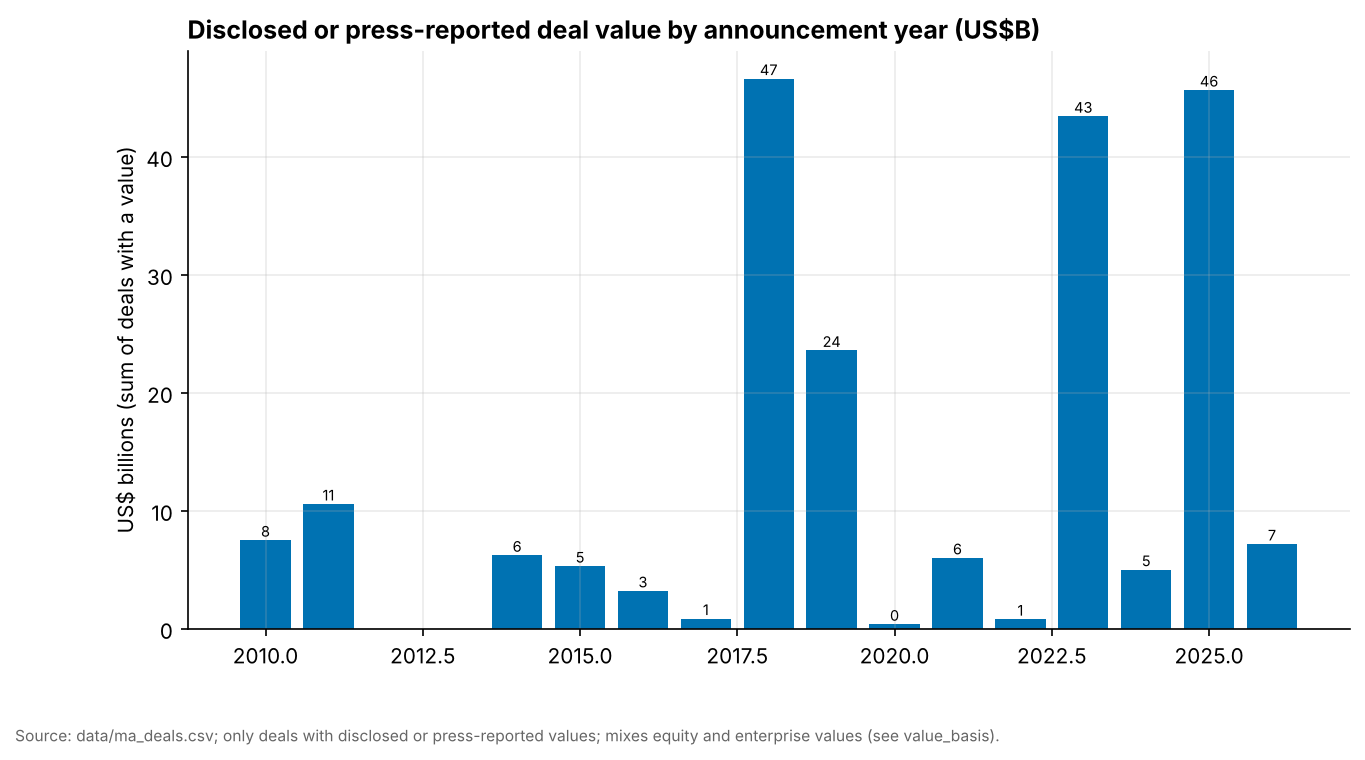
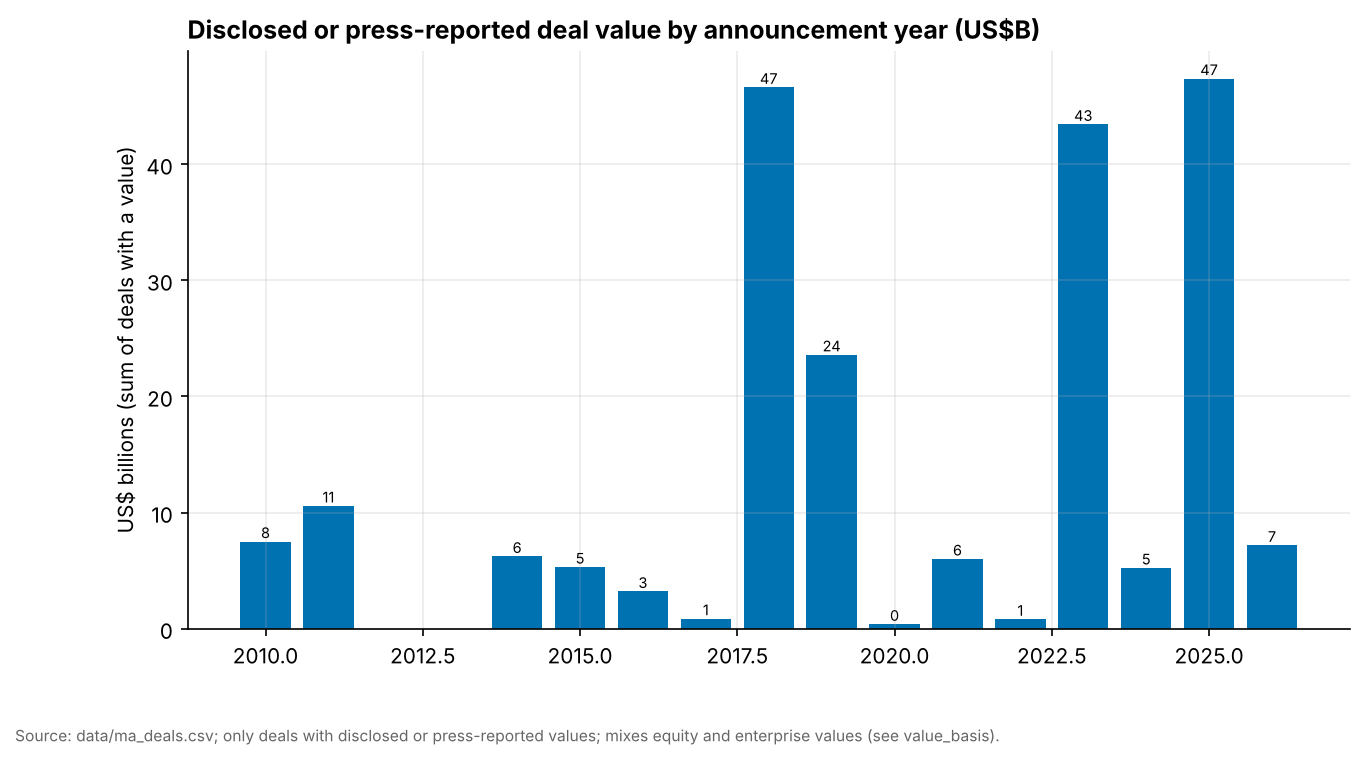
docs(ch10): ingestion and integration
Claude-Session: https://claude.ai/code/session_015j6Et44vVa5dK62bXN3KKX

diff --git a/meta/glossary-terms.md b/meta/glossary-terms.md
@@ -293,3 +293,32 @@
 - **Lakeflow** — Databricks' suite for data ingestion, declarative pipelines and job orchestration. (ch25)
 - **Liquidation preference** — The right of preferred shareholders to be repaid before common shareholders in a sale or liquidation. (ch25)
 - **Tender offer** — An offer to buy existing shares from employees and holders, often used by private companies to provide liquidity. (ch25)
+- **Role-based access control** — a model in which permissions are granted to roles and users receive access by being assigned roles. (ch15)
+- **Attribute-based access control** — a model that decides access at request time from attributes of the user, the data, the action and the context. (ch15)
+- **Row-level security** — a policy that silently filters which rows of a table a given user can see. (ch15)
+- **Column-level security** — a policy that blocks or masks specific columns depending on who is asking. (ch15)
+- **Dynamic data masking** — rewriting sensitive values at query time (for example, showing j***@example.com) without changing the stored data. (ch15)
+- **Static data masking** — permanently replacing sensitive values in a copy of the data, typically for test or vendor use. (ch15)
+- **Tag-based policy** — an access or masking policy attached to a tag, so it applies automatically to every object carrying that tag. (ch15)
+- **Policy engine** — software that evaluates access rules and returns allow, deny, filter or mask decisions for enforcement points. (ch15)
+- **Open Policy Agent** — a CNCF graduated, general-purpose policy engine that evaluates rules written in the Rego language. (ch15)
+- **Apache Ranger** — an open-source framework for defining and enforcing data access policies across Hadoop-era platforms such as Hive, HDFS and Kafka. (ch15)
+- **Data classification** — labelling data by type and sensitivity (for example, email address, card number, health data) so policies can act on it. (ch15)
+- **Data discovery** — finding where data stores, and the sensitive data inside them, exist across an estate. (ch15)
+- **Exact data match** — detecting sensitive data by comparing content against hashed values from a known reference table. (ch15)
+- **Luhn checksum** — a check-digit algorithm used to validate candidate payment-card numbers and reject most random digit strings. (ch15)
+- **Named-entity recognition** — machine learning that tags names, places, organisations and similar entities in free text. (ch15)
+- **Entity resolution** — linking records and detections across systems to the same real-world person or thing. (ch15)
+- **Data security posture management** — continuous discovery of sensitive data, who can access it and where it is exposed, ranked by risk. (ch15)
+- **Shadow data** — copies of data that sit outside governed, catalogued systems, such as exports, snapshots and scratch buckets. (ch15)
+- **Data loss prevention** — controls that detect and block sensitive data leaving approved boundaries. (ch15)
+- **Tokenization** — replacing a sensitive value with a surrogate token that can be mapped back only by a privileged service or key. (ch15)
+- **Format-preserving encryption** — encryption whose output keeps the format of the input, such as a 16-digit number staying 16 digits. (ch15)
+- **Pseudonymisation** — processing personal data so it cannot be attributed to a person without separately held information; still personal data under GDPR. (ch15)
+- **Differential privacy** — adding calibrated statistical noise to results so they reveal little about any single individual. (ch15)
+- **Data clean room** — an environment where two or more parties analyse combined data under agreed rules without seeing each other's rows. (ch15)
+- **Data subject access request** — an individual's legal request to see the personal data an organisation holds about them. (ch15)
+- **Right to erasure** — the GDPR right to have personal data deleted in defined circumstances (Article 17). (ch15)
+- **Purpose limitation** — the principle that personal data be collected and used only for specified, compatible purposes. (ch15)
+- **Role explosion** — the proliferation of narrowly scoped roles that occurs when RBAC is used to express many combinations of sensitivity, region and purpose. (ch15)
+- **Data detection and response** — monitoring of data access patterns to alert on and respond to unusual or malicious activity. (ch15)

diff --git a/meta/staging/merged/ch15-glossary.md b/meta/staging/merged/ch15-glossary.md
@@ -1,0 +1,31 @@
+- **Role-based access control** — a model in which permissions are granted to roles and users receive access by being assigned roles. (ch15)
+- **Attribute-based access control** — a model that decides access at request time from attributes of the user, the data, the action and the context. (ch15)
+- **Row-level security** — a policy that silently filters which rows of a table a given user can see. (ch15)
+- **Column-level security** — a policy that blocks or masks specific columns depending on who is asking. (ch15)
+- **Dynamic data masking** — rewriting sensitive values at query time (for example, showing j***@example.com) without changing the stored data. (ch15)
+- **Static data masking** — permanently replacing sensitive values in a copy of the data, typically for test or vendor use. (ch15)
+- **Tag-based policy** — an access or masking policy attached to a tag, so it applies automatically to every object carrying that tag. (ch15)
+- **Policy engine** — software that evaluates access rules and returns allow, deny, filter or mask decisions for enforcement points. (ch15)
+- **Open Policy Agent** — a CNCF graduated, general-purpose policy engine that evaluates rules written in the Rego language. (ch15)
+- **Apache Ranger** — an open-source framework for defining and enforcing data access policies across Hadoop-era platforms such as Hive, HDFS and Kafka. (ch15)
+- **Data classification** — labelling data by type and sensitivity (for example, email address, card number, health data) so policies can act on it. (ch15)
+- **Data discovery** — finding where data stores, and the sensitive data inside them, exist across an estate. (ch15)
+- **Exact data match** — detecting sensitive data by comparing content against hashed values from a known reference table. (ch15)
+- **Luhn checksum** — a check-digit algorithm used to validate candidate payment-card numbers and reject most random digit strings. (ch15)
+- **Named-entity recognition** — machine learning that tags names, places, organisations and similar entities in free text. (ch15)
+- **Entity resolution** — linking records and detections across systems to the same real-world person or thing. (ch15)
+- **Data security posture management** — continuous discovery of sensitive data, who can access it and where it is exposed, ranked by risk. (ch15)
+- **Shadow data** — copies of data that sit outside governed, catalogued systems, such as exports, snapshots and scratch buckets. (ch15)
+- **Data loss prevention** — controls that detect and block sensitive data leaving approved boundaries. (ch15)
+- **Tokenization** — replacing a sensitive value with a surrogate token that can be mapped back only by a privileged service or key. (ch15)
+- **Format-preserving encryption** — encryption whose output keeps the format of the input, such as a 16-digit number staying 16 digits. (ch15)
+- **Pseudonymisation** — processing personal data so it cannot be attributed to a person without separately held information; still personal data under GDPR. (ch15)
+- **Differential privacy** — adding calibrated statistical noise to results so they reveal little about any single individual. (ch15)
+- **Data clean room** — an environment where two or more parties analyse combined data under agreed rules without seeing each other's rows. (ch15)
+- **Data subject access request** — an individual's legal request to see the personal data an organisation holds about them. (ch15)
+- **Right to erasure** — the GDPR right to have personal data deleted in defined circumstances (Article 17). (ch15)
+- **Purpose limitation** — the principle that personal data be collected and used only for specified, compatible purposes. (ch15)
+- **Data sovereignty** — the principle that data is subject to the laws of the place where it is stored or where its subjects reside. (ch15)
+- **Model Context Protocol** — an open protocol for connecting AI agents to tools and data sources. (ch15)
+- **Role explosion** — the proliferation of narrowly scoped roles that occurs when RBAC is used to express many combinations of sensitivity, region and purpose. (ch15)
+- **Data detection and response** — monitoring of data access patterns to alert on and respond to unusual or malicious activity. (ch15)

diff --git a/meta/decisions.md b/meta/decisions.md
@@ -87,3 +87,9 @@ Judgment calls made during the autonomous build. Newest at the bottom.
 | ch25 | 2026-11-01 | ch25: Research briefing section A said no Everpure-Databricks partnership was found; new search shows Everpure is a named launch partner of the Databricks Storage Ecosystem (2026-06-10) with an OpenSharing connector in private preview. Chapter uses the newer finding. | drafter judgment |
 | ch25 | 2026-11-01 | ch25: DBU list prices cited from third-party 2026 pricing guides (databricks.com/product/pricing not fetchable); labelled as such. | drafter judgment |
 | ch25 | 2026-11-01 | ch25: Aug 2026 round valuation_basis changed from press-reported to company-stated (Databricks press release) via staging correction. | drafter judgment |
+| ch15 | 2026-11-01 | ch15: Scope boundary — this chapter covers mechanisms (access models, classification engines, DSPM, masking/tokenization, regulation); company profiles and business models of governance/security vendors are left to Ch 33. Vendor table kept to positioning plus one deal/funding fact each. | drafter judgment |
+| ch15 | 2026-11-01 | ch15: Varonis multiple (~8.5x) computed as $6.3B deal value / midpoint of FY2026 (calendar) revenue guidance $735–739M from data/public_comps.csv; labelled estimate. Uses headline deal value (EV-like), not the ~$5.71B equity value. | drafter judgment |
+| ch15 | 2026-11-01 | ch15: Cyera ~80x ARR multiple shown as press-reported and disputed by the company; ARR figures conflict ($150M vs $288M in secondary sources), so no ARR figure is stated. | drafter judgment |
+| ch15 | 2026-11-01 | ch15: BigID latest round kept at 2024 Series E ("over $1B", company-stated) per CSV; secondary-market marks (~$0.5B, Caplight via TrueUp, May 2026) not used. | drafter judgment |
+| ch15 | 2026-11-01 | ch15: Prose came in at ~4,300 words vs 2,200 budget, because the brief required L2 classification mechanics, regulation, vendor positioning and a worked example; Key terms bullets account for ~300 words. | drafter judgment |
+| ch15 | 2026-11-01 | ch15: Privacera reported rebrand to "Trust3 AI" not used (single weak source). | drafter judgment |

diff --git a/meta/open-questions.md b/meta/open-questions.md
@@ -74,3 +74,12 @@ Every `[VERIFY: …]` left in the text is listed here with its chapter. Resolve 
 | ch25 | ch25: Share of Databricks revenue transacted through Azure Databricks (no public figure found). | open |
 | ch25 | ch25: Everpure OpenSharing connector GA status (private preview from 2026-06-09 per Everpure blog; Databricks lists Everpure as launch partner). | open |
 | ch25 | ch25: Primary source (Bloomberg TV, June 2026) for Ghodsi's "terrible year to go public" comment; currently from a secondary summary. | open |
+| ch15 | ch15: Amazon Macie per-GB inspection tier schedule above 50 TB (third-party sources cite $0.50 and $0.25 tiers; not confirmed on AWS page). | open |
+| ch15 | ch15: IAPP count of US states with comprehensive privacy laws as of 2026-11 (secondary summaries say ~20; one cites 23 enacted as of 2026-04-13). | open |
+| ch15 | ch15: Independent DSPM market-size figure (only vendor-cited ~$415M for 2024 via Palo Alto Networks Cyberpedia). | open |
+| ch15 | ch15: Veeam–Securiti AI announcement date (believed Oct 2025; completion 2025-12-11 confirmed). | open |
+| ch15 | ch15: Rubrik–Laminar primary press release (announced 2023-08, terms undisclosed). | open |
+| ch15 | ch15: Exact GA date of Unity Catalog ABAC row-filter/column-mask policies (governed tags GA 2026-04-02; one GCP docs page still showed Public Preview). | open |
+| ch15 | ch15: US Census Bureau differential-privacy page URL not re-fetched. | open |
+| ch15 | ch15: EDPB Meta €1.2B fine press-release URL not re-fetched. | open |
+| ch15 | ch15: Stanford DigiChina PIPL translation URL not re-fetched. | open |

diff --git a/meta/staging/merged/ch15-decisions.md b/meta/staging/merged/ch15-decisions.md
@@ -1,0 +1,6 @@
+- ch15: Scope boundary — this chapter covers mechanisms (access models, classification engines, DSPM, masking/tokenization, regulation); company profiles and business models of governance/security vendors are left to Ch 33. Vendor table kept to positioning plus one deal/funding fact each.
+- ch15: Varonis multiple (~8.5x) computed as $6.3B deal value / midpoint of FY2026 (calendar) revenue guidance $735–739M from data/public_comps.csv; labelled estimate. Uses headline deal value (EV-like), not the ~$5.71B equity value.
+- ch15: Cyera ~80x ARR multiple shown as press-reported and disputed by the company; ARR figures conflict ($150M vs $288M in secondary sources), so no ARR figure is stated.
+- ch15: BigID latest round kept at 2024 Series E ("over $1B", company-stated) per CSV; secondary-market marks (~$0.5B, Caplight via TrueUp, May 2026) not used.
+- ch15: Prose came in at ~4,300 words vs 2,200 budget, because the brief required L2 classification mechanics, regulation, vendor positioning and a worked example; Key terms bullets account for ~300 words.
+- ch15: Privacera reported rebrand to "Trust3 AI" not used (single weak source).

diff --git a/meta/staging/merged/ch15-open-questions.md b/meta/staging/merged/ch15-open-questions.md
@@ -1,0 +1,9 @@
+- ch15: Amazon Macie per-GB inspection tier schedule above 50 TB (third-party sources cite $0.50 and $0.25 tiers; not confirmed on AWS page).
+- ch15: IAPP count of US states with comprehensive privacy laws as of 2026-11 (secondary summaries say ~20; one cites 23 enacted as of 2026-04-13).
+- ch15: Independent DSPM market-size figure (only vendor-cited ~$415M for 2024 via Palo Alto Networks Cyberpedia).
+- ch15: Veeam–Securiti AI announcement date (believed Oct 2025; completion 2025-12-11 confirmed).
+- ch15: Rubrik–Laminar primary press release (announced 2023-08, terms undisclosed).
+- ch15: Exact GA date of Unity Catalog ABAC row-filter/column-mask policies (governed tags GA 2026-04-02; one GCP docs page still showed Public Preview).
+- ch15: US Census Bureau differential-privacy page URL not re-fetched.
+- ch15: EDPB Meta €1.2B fine press-release URL not re-fetched.
+- ch15: Stanford DigiChina PIPL translation URL not re-fetched.

diff --git a/docs/02-pipelines-and-governance/ch15-governance-security-privacy.md b/docs/02-pipelines-and-governance/ch15-governance-security-privacy.md
@@ -1,5 +1,5 @@
 # 15. Governance, Security and Privacy
-> **Depth:** L2 · **Reading time:** ~13 min · **Last verified:** 2026-11-01 · **Prerequisites:** [Ch 8 — Catalogs and metastores](../01-data-systems-foundations/ch08-catalogs-and-metastores.md)
+> **Depth:** L2 · **Reading time:** ~19 min · **Last verified:** 2026-11-01 · **Prerequisites:** [Ch 8 — Catalogs and metastores](../01-data-systems-foundations/ch08-catalogs-and-metastores.md)
 
 ## TL;DR
 
